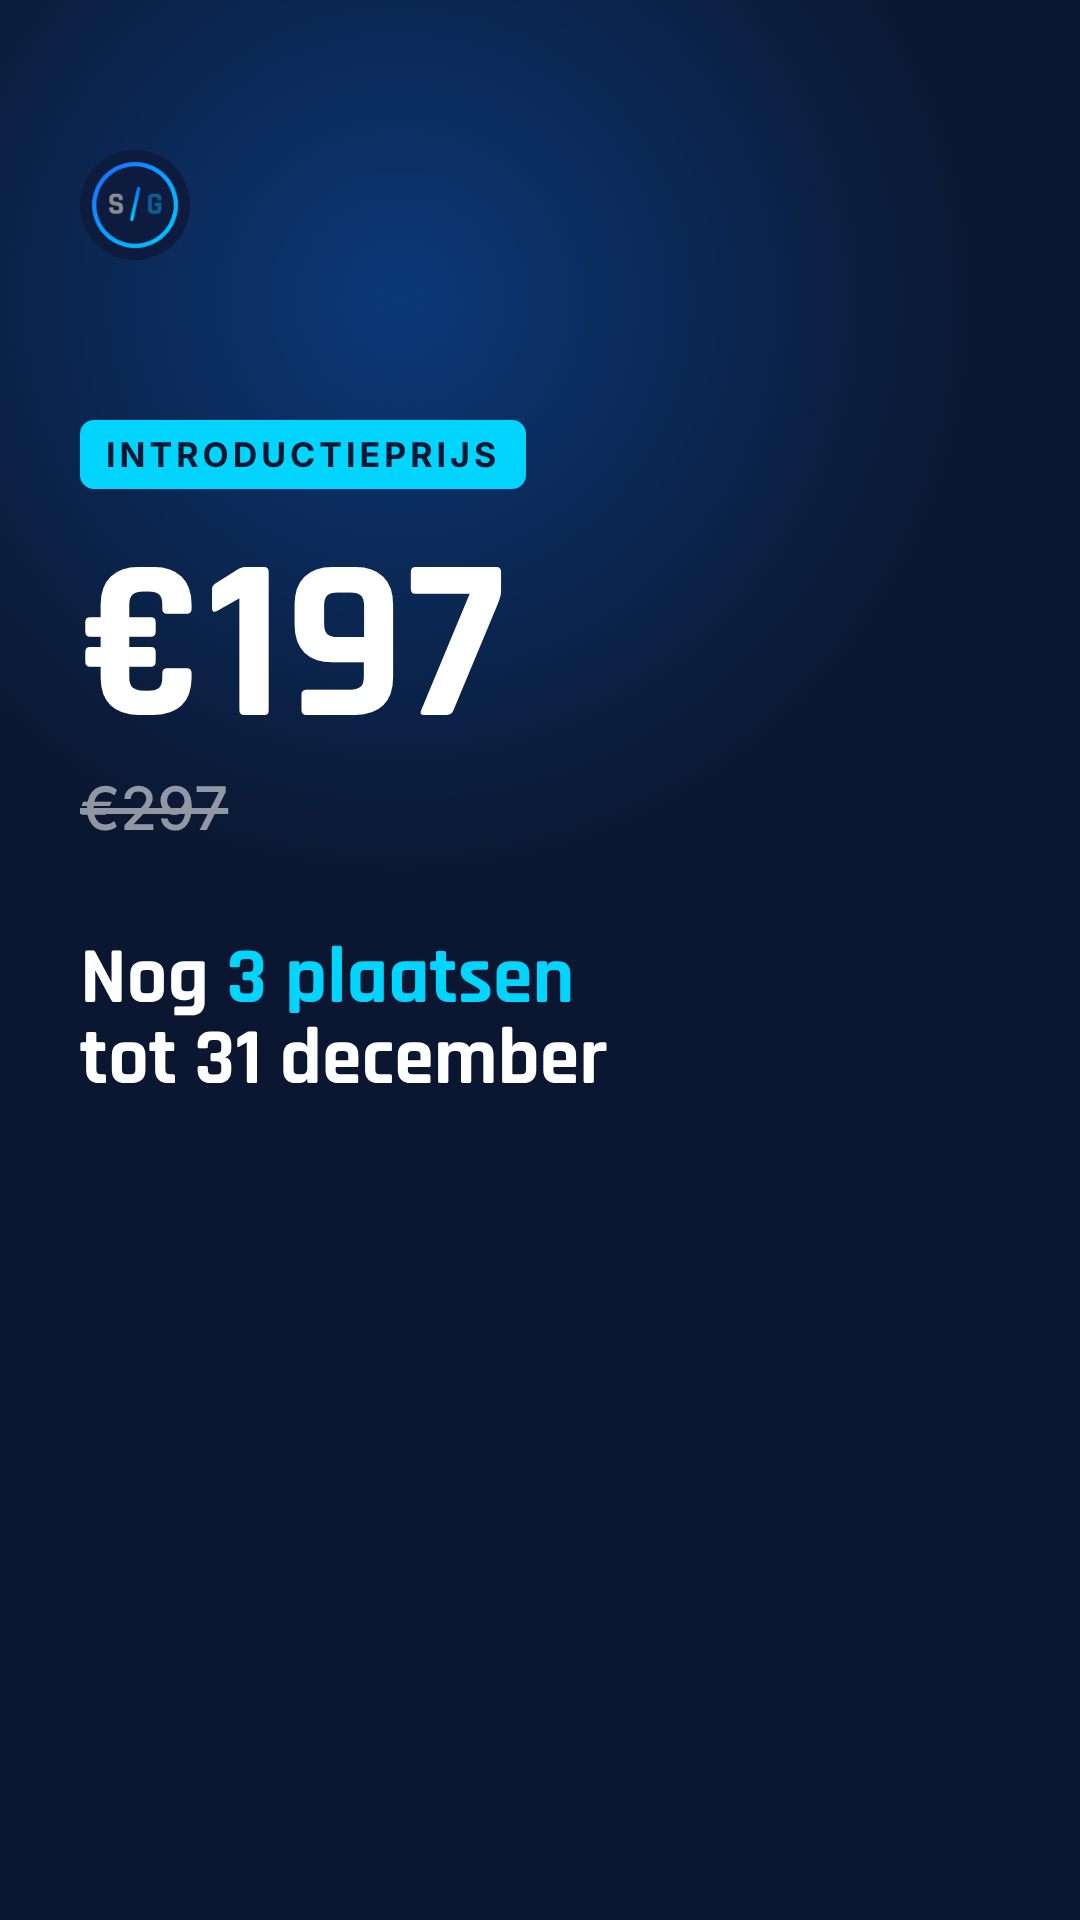
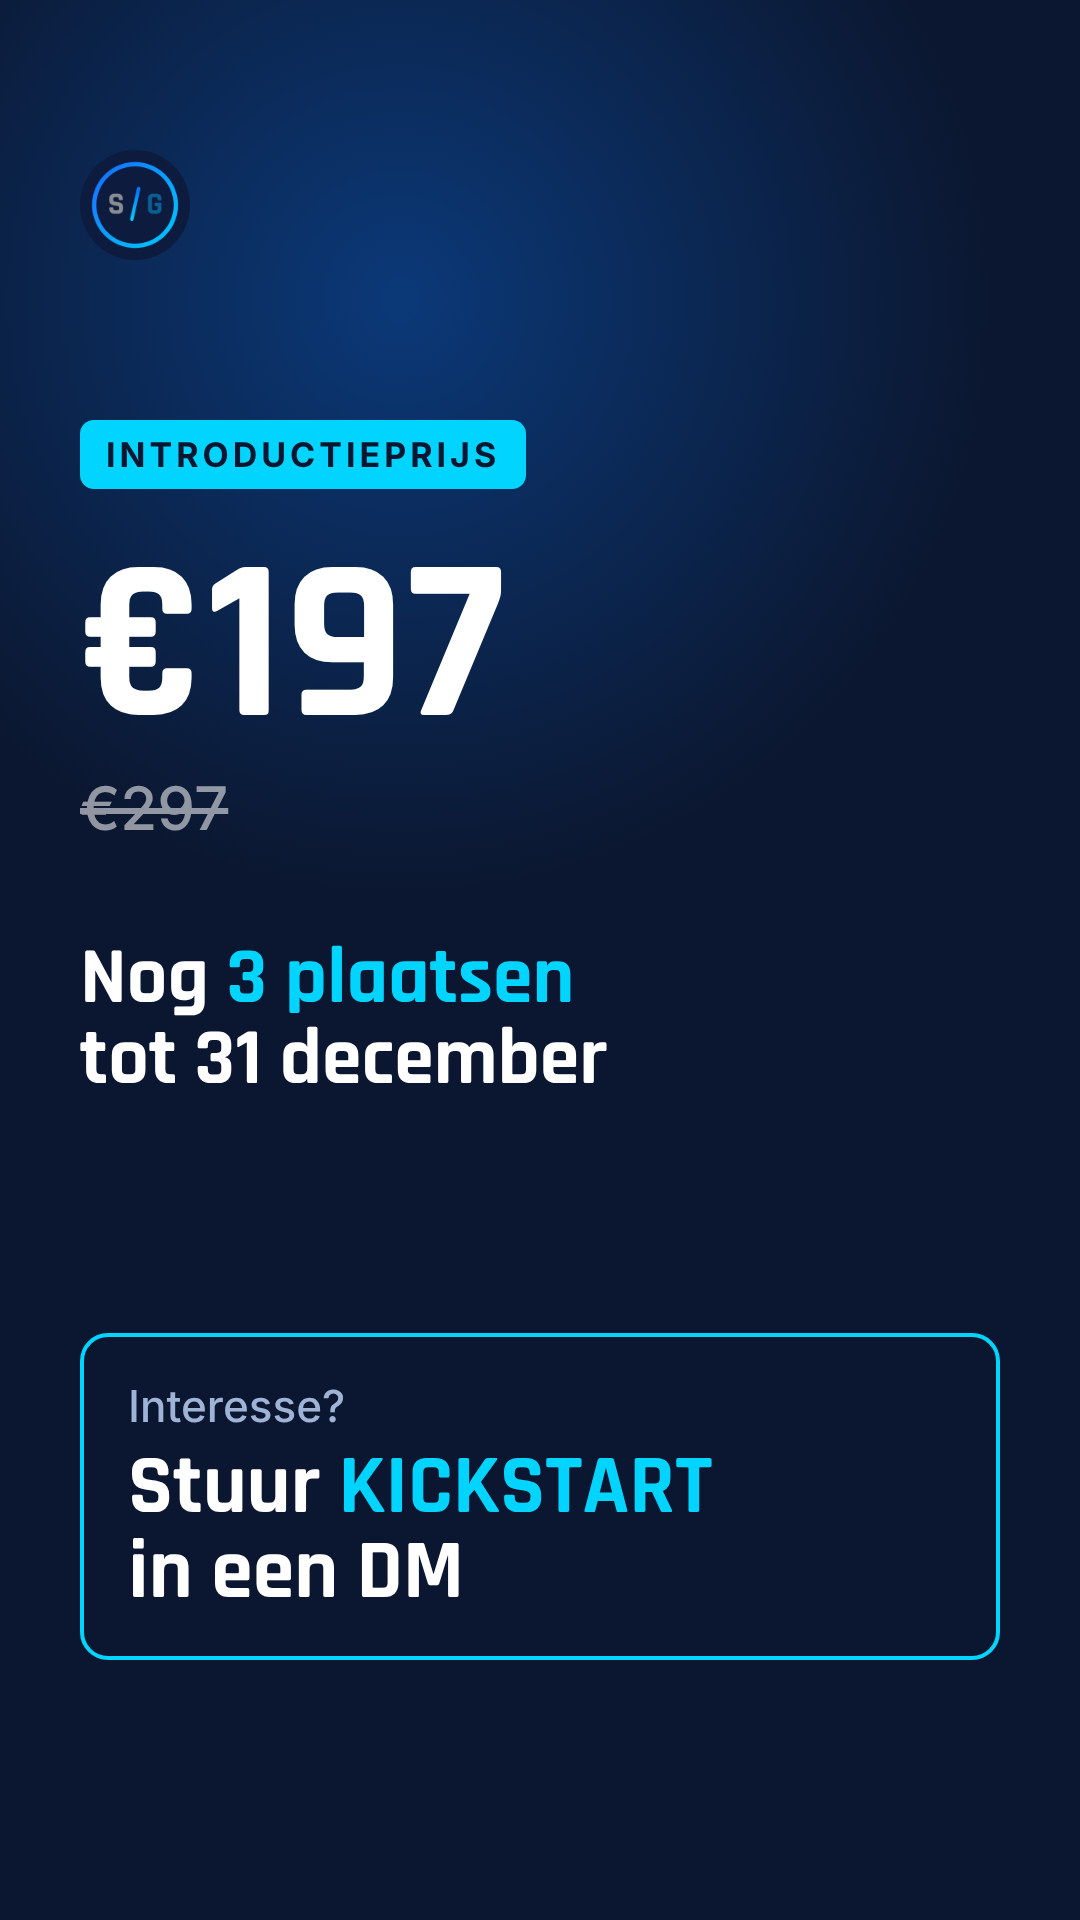
Story 3: DM-oproep KICKSTART
Claude-Session: https://claude.ai/code/session_01QkSWZzWLTduRQtPp2zathG

Changed region(s): [[0.1222, 0.7188, 0.6722, 0.8438], [0.0611, 0.6875, 0.0917, 0.8438], [0.9167, 0.7188, 0.9472, 0.8438]]

diff --git a/instagram/stories/kickstart/stories.html b/instagram/stories/kickstart/stories.html
@@ -34,7 +34,7 @@ s{opacity:.55}
 <div class="f" id="s3"><div class="glow"></div><img class="logo" src="../../beeldbank/logo-sgm-1080.png">
  <div class="wrap" style="top:420px"><span class="tag">Introductieprijs</span><h1 style="margin-top:50px;font-size:230px">€197</h1><p style="font-size:60px;margin-top:10px"><s>€297</s></p>
  <h2 style="margin-top:90px;font-size:80px">Nog <span class="c">3 plaatsen</span><br>tot 31 december</h2></div>
- <div class="sticker" style="bottom:300px">link-sticker hier</div></div>
+ <div class="wrap" style="bottom:260px"><div style="border:4px solid #00d4ff;border-radius:28px;padding:40px 44px"><p style="font-size:44px;color:#9fb3d6">Interesse?</p><h2 style="font-size:84px;margin-top:8px">Stuur <span class="c">KICKSTART</span><br>in een DM</h2></div></div></div>
 <div class="f" id="s4"><div class="glow"></div><img class="logo" src="../../beeldbank/logo-sgm-1080.png">
  <div class="wrap" style="top:430px"><h2 style="font-size:100px">Ken jij iemand in een <span class="c">clubbestuur</span> of met een <span class="c">sportzaak</span>?</h2>
  <p style="margin-top:60px;font-size:54px">Stuur dit even door. Dat helpt enorm.</p></div>
